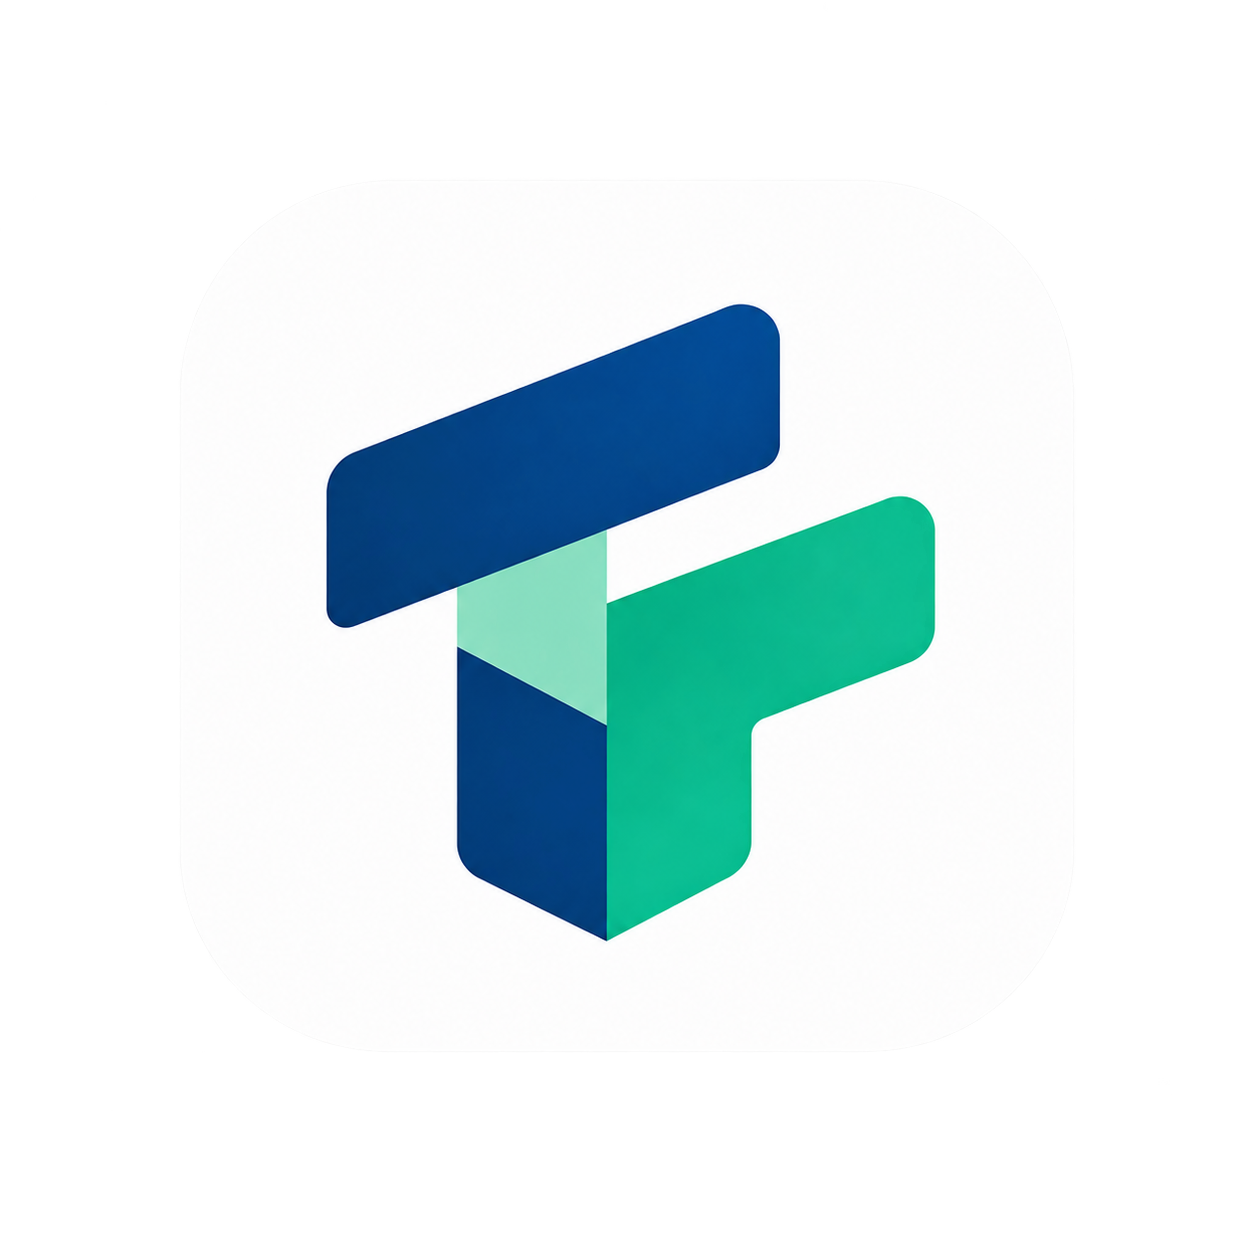
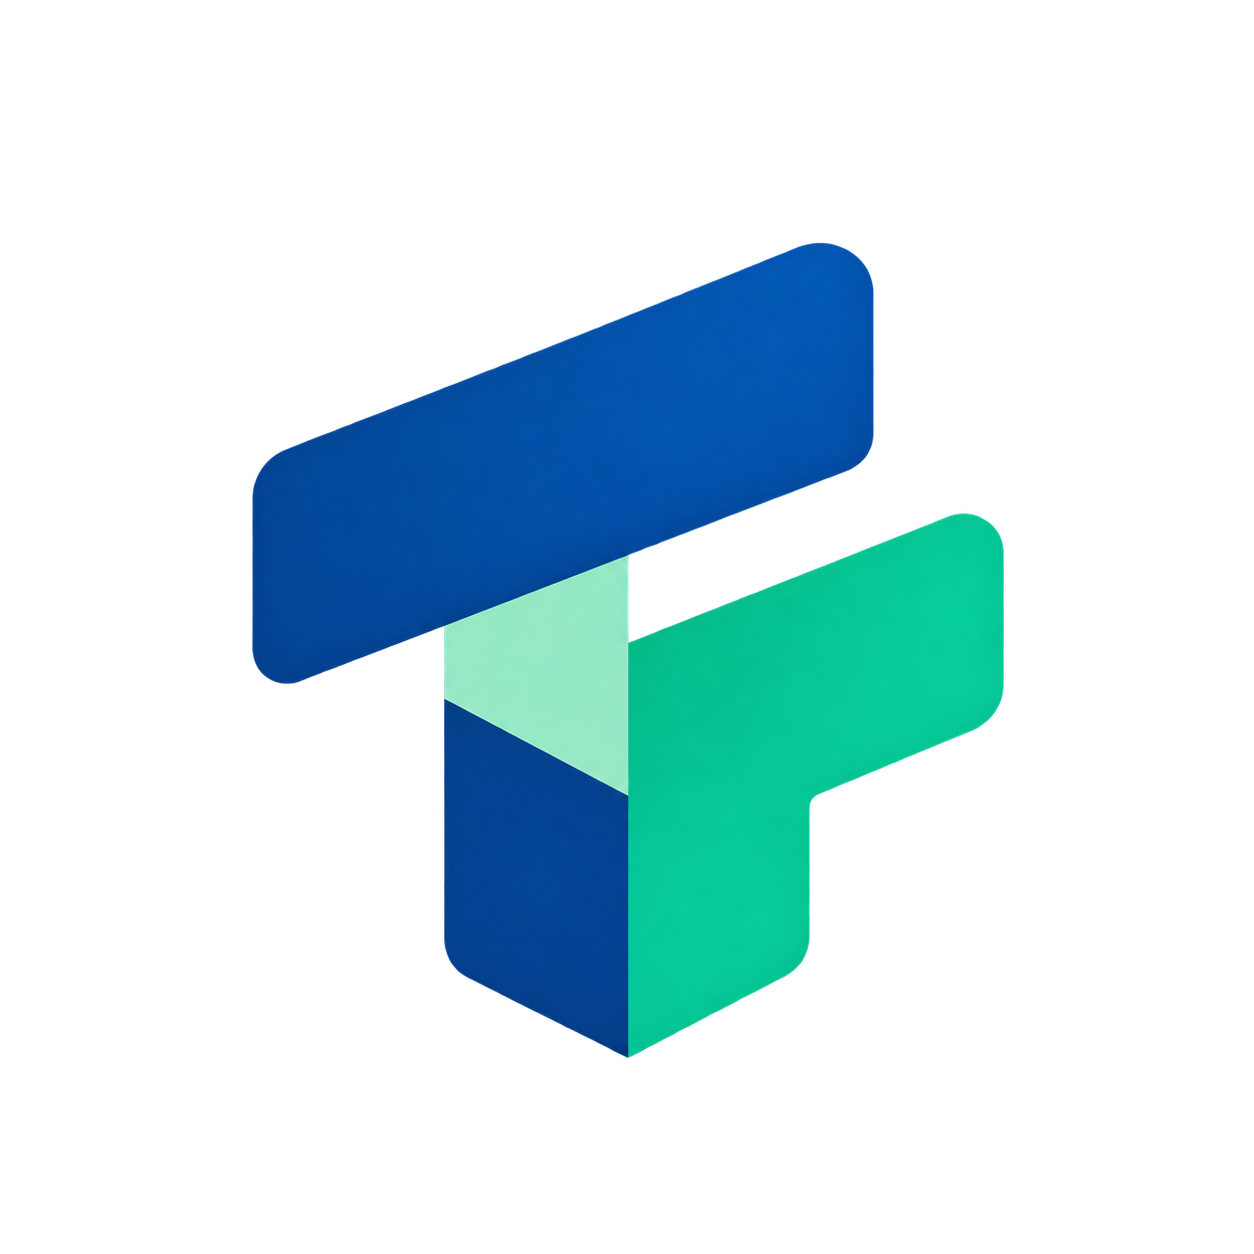
투명 아이콘 변경

Changed region(s): [[0.1866, 0.1866, 0.8086, 0.8397]]

diff --git a/frontend/css/planner.css b/frontend/css/planner.css
@@ -3,7 +3,7 @@ body:has(.flow:not([hidden]))>header{display:none}
 .flow{min-height:100vh;padding:0;background:var(--tf-soft);color:var(--tf-text)}
 .planner-shell{display:grid;grid-template-columns:220px minmax(0,1fr);min-height:100vh}
 .planner-sidebar{position:sticky;top:0;height:100vh;padding:30px 22px;border-right:1px solid var(--tf-border);background:var(--tf-surface);display:flex;flex-direction:column;gap:28px;z-index:5}
-.planner-home{display:flex;align-items:center;justify-content:center;min-height:58px;border:1px solid var(--tf-primary);border-radius:17px;font-family:Arial,sans-serif;font-size:19px;font-weight:800;letter-spacing:-.5px;background:var(--tf-surface)}
+.planner-home{display:flex;align-items:center;justify-content:center;min-height:58px;border:1px solid transparent!important;border-radius:17px;font-family:Arial,sans-serif;font-size:19px;font-weight:800;letter-spacing:-.5px;background:transparent!important}
 .planner-new{width:100%;border:0;border-radius:13px;padding:15px 14px;background:var(--tf-soft-sage);color:var(--tf-text);font-weight:700;text-align:left}
 .planner-side-title{display:block;margin:20px 8px 10px;font-size:13px;color:var(--tf-muted)}
 .planner-saved{display:grid;gap:9px}
@@ -68,7 +68,7 @@ body:has(.flow:not([hidden]))>header{display:none}
 .conversation-label{font-size:11px;letter-spacing:1.3px;color:var(--tf-muted);font-weight:700}
 .conversation-current{margin-top:8px;padding:24px;border:1px solid var(--tf-border);border-radius:24px;background:var(--tf-surface-translucent)}
 .conversation-current h2{font-size:22px;line-height:1.45;margin:0 0 17px}
-.conversation-options{display:flex;gap:10px;flex-wrap:wrap}
+.conversation-options{display:flex;gap:10px;flex-wrap:wrap;margin-bottom:16px}
 .conversation-option{border:1px solid var(--tf-border);background:var(--tf-surface);border-radius:14px;padding:11px 18px;color:var(--tf-text);font-weight:700}
 .conversation-option:hover,.conversation-option:focus-visible{background:var(--tf-soft);border-color:var(--tf-primary)}
 .conversation-option.primary-option{background:var(--tf-primary);color:var(--tf-on-primary);border-color:var(--tf-primary)}
@@ -165,7 +165,11 @@ body:has(.flow:not([hidden]))>header{display:none}
 .planner-sidebar.is-collapsed .sidebar-toggle{transform:rotate(180deg)}
 .planner-sidebar.is-collapsed .planner-brand-full,.planner-sidebar.is-collapsed .planner-new-full,.planner-sidebar.is-collapsed .planner-side-title,.planner-sidebar.is-collapsed .planner-saved,.planner-sidebar.is-collapsed .planner-side-note{display:none}
 .planner-sidebar.is-collapsed .planner-brand-short,.planner-sidebar.is-collapsed .planner-new-short{display:inline}
-.planner-sidebar.is-collapsed .planner-home{min-height:52px;font-size:15px;border-radius:14px}
+.planner-sidebar.is-collapsed .planner-home{min-height:52px;font-size:15px;border:0!important;border-radius:0!important;background:transparent!important;box-shadow:none!important}
+.planner-sidebar.is-collapsed .planner-brand-short{transform:rotate(0deg) scale(1);transition:opacity .22s ease,transform .28s ease}
+.planner-sidebar.is-collapsed .sidebar-toggle{top:41px;right:auto;left:50%;transform:translateX(-50%) rotate(180deg);opacity:0;pointer-events:none}
+.planner-sidebar.is-collapsed:has(.planner-home:hover) .sidebar-toggle,.planner-sidebar.is-collapsed .sidebar-toggle:hover,.planner-sidebar.is-collapsed .sidebar-toggle:focus-visible{opacity:1;pointer-events:auto}
+.planner-sidebar.is-collapsed:has(.planner-home:hover) .planner-brand-short,.planner-sidebar.is-collapsed:has(.sidebar-toggle:hover) .planner-brand-short,.planner-sidebar.is-collapsed:has(.sidebar-toggle:focus-visible) .planner-brand-short{opacity:0;transform:rotate(180deg) scale(.72)}
 .planner-sidebar.is-collapsed .planner-new{display:grid;place-items:center;padding:13px 8px;text-align:center;font-size:22px}
 @media(max-width:700px){.sidebar-toggle{display:none}.planner-sidebar.is-collapsed{padding:15px 18px;display:grid;grid-template-columns:1fr auto;align-items:center}.planner-sidebar.is-collapsed .planner-brand-full,.planner-sidebar.is-collapsed .planner-new-full{display:inline}.planner-sidebar.is-collapsed .planner-brand-short,.planner-sidebar.is-collapsed .planner-new-short{display:none}.planner-sidebar.is-collapsed .planner-home{min-height:44px;font-size:19px}.planner-sidebar.is-collapsed .planner-new{display:block;padding:11px 13px;font-size:14px}}
 /* Product thumbnail space; the entire result row remains the accordion trigger. */

diff --git a/frontend/js/planner-shell.js b/frontend/js/planner-shell.js
@@ -36,6 +36,15 @@ function tfApplyResult(data,renderFn){if(!data)return;tfPlan.result=tfRequire(da
 // ── 공용 화면 조작(모든 flow 페이지) ──
 flow.addEventListener('click',e=>{
  const reload=e.target.closest('[data-reload]');if(reload){location.reload();return}
+ const sidebarHome=e.target.closest('.planner-home');
+ if(sidebarHome){
+  const panel=sidebarHome.closest('.planner-sidebar');
+  if(panel?.classList.contains('is-collapsed')){
+   e.preventDefault();
+   panel.querySelector('[data-sidebar-toggle]')?.click();
+   return;
+  }
+ }
  const toggle=e.target.closest('[data-sidebar-toggle]');if(toggle){const panel=toggle.closest('.planner-sidebar'),collapsed=panel.classList.toggle('is-collapsed');toggle.setAttribute('aria-expanded',String(!collapsed));toggle.setAttribute('aria-label',collapsed?'사이드바 열기':'사이드바 접기');toggle.title=collapsed?'사이드바 열기':'사이드바 접기';try{localStorage.setItem(SIDEBAR_STORE,collapsed?'1':'0')}catch{}return}
  const newLink=e.target.closest('[data-new-basket]');if(newLink){e.preventDefault();createNewBasket();return}
  const basketLink=e.target.closest('a[data-open-basket]');if(basketLink){if(basketLink.dataset.openBasket!==tfPlan.listId)tfSelectList(basketLink.dataset.openBasket)/* 이동은 기본 href 동작에 맡김 */;return}
